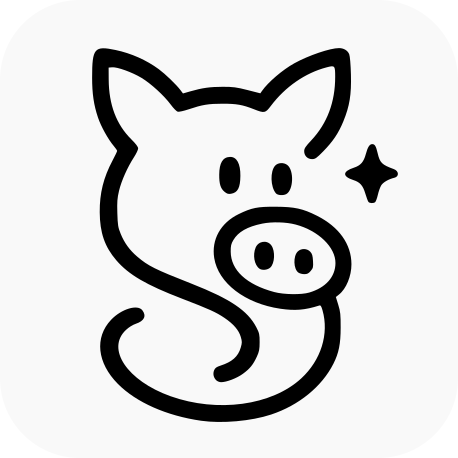
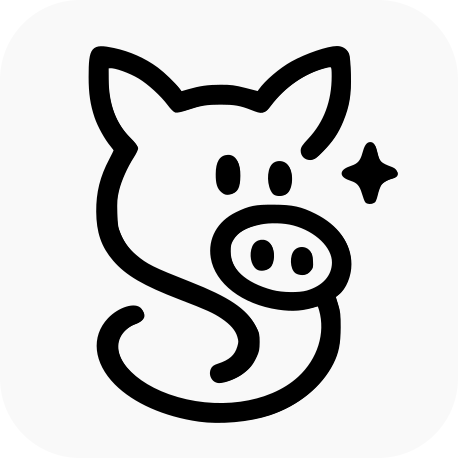
progress

diff --git a/src/lib/assets/app.html b/src/lib/assets/app.html
@@ -4,17 +4,20 @@
 <svg
    version="1.1"
    id="svg1"
-   style="width: 64px"
-   stroke-width="2"
+   width="308.67764"
+   height="376.77927"
+   viewBox="0 0 308.67764 376.77927"
    xmlns="http://www.w3.org/2000/svg"
    xmlns:svg="http://www.w3.org/2000/svg">
   <defs
      id="defs1" />
   <g
      id="g1"
-     transform="translate(35.324864,655.13262)">
+     transform="translate(36.824864,656.63262)"
+     style="stroke-width:4.8;stroke-dasharray:none">
     <path
        d="m 73.675136,-282.58602 c -34.65126,-4.98187 -64.8835498,-18.35691 -83.2098698,-36.8128 -20.8583502,-21.00583 -23.5679702,-46.40717 -6.8374002,-64.09728 10.2795402,-10.8691 26.5432,-15.79939 31.29696,-9.48759 4.27742,5.67932 1.84825,10.65439 -6.5669498,13.44947 -3.06194,1.01701 -6.97005,3.45399 -9.83174,6.13076 -20.2079402,18.90216 1.21330997,50.84551 44.4306098,66.25487 47.05149,16.77648 101.339654,9.38503 130.817174,-17.81103 19.72353,-18.19699 27.92799,-44.48771 21.22714,-68.02113 -1.18589,-4.16484 -1.88478,-5.22577 -3.17338,-4.81726 -14.49071,4.59374 -24.19378,5.39623 -38.99751,3.22525 -35.31742,-5.17933 -62.105904,-25.72028 -66.093084,-50.67906 -2.94036,-18.4059 6.36659,-35.1318 24.438054,-43.91866 13.10849,-6.37372 18.67183,-7.48272 37,-7.37563 19.01417,0.1111 26.93723,1.8329 41.11142,8.9341 22.20535,11.12477 34.58841,28.48971 34.63436,48.56822 0.0271,11.8503 -5.24134,24.62529 -12.49753,30.30411 l -3.09289,2.42055 2.42232,7.83977 c 2.1155,6.84675 2.41854,9.73971 2.39248,22.83976 -0.0324,16.29979 -1.84557,25.33392 -7.22519,36 -11.53004,22.8604 -34.51463,41.62087 -62.29162,50.84363 -19.80072,6.57441 -49.240524,9.18786 -69.953354,6.20995 z M 181.74364,-410.74991 c 16.51741,-4.89702 26.06773,-15.60911 26.19749,-29.38432 0.14948,-15.86903 -17.00884,-32.51784 -39.76599,-38.58516 -9.58334,-2.55503 -23.6047,-2.94379 -33.47341,-0.92809 -14.89749,3.04283 -24.0186,8.23663 -28.82614,16.41436 -2.25997,3.84425 -2.69243,5.73532 -2.65129,11.59352 0.1298,18.48254 15.67325,32.90861 43.50855,40.38084 9.6209,2.58267 27.15625,2.83753 35.01079,0.50885 z m -10.81669,-19.92587 c -4.99113,-3.49592 -5.42917,-16.37737 -0.71716,-21.08938 3.35537,-3.35537 9.27261,-3.27296 12.5111,0.17426 1.92393,2.04793 2.46936,3.87567 2.776,9.30243 0.34797,6.15831 0.14441,7.03564 -2.30896,9.9513 -2.131,2.53255 -3.45772,3.19757 -6.37918,3.19757 -2.02873,0 -4.67554,-0.69128 -5.8818,-1.53618 z m -39.00752,-3.96321 c -5.08977,-3.65991 -6.88158,-13.64626 -3.78028,-21.06872 2.78873,-6.67436 11.65129,-7.88745 15.73412,-2.15365 4.03485,5.66643 3.41319,18.04857 -1.11175,22.14358 -2.73416,2.47438 -8.15164,3.01342 -10.84209,1.07879 z m -43.218854,111.52483 c -2.71273,-2.71273 -3.48469,-6.5025 -2.03665,-9.99839 0.94219,-2.27464 2.37242,-3.30706 6.36328,-4.59335 11.686464,-3.76665 17.604864,-9.03785 20.210294,-18.0002 1.43165,-4.9247 1.43427,-5.93328 0.028,-10.77067 -1.93707,-6.66327 -7.24941,-12.84244 -16.290114,-18.9482 -8.46191,-5.71487 -15.15671,-8.74633 -42.45892,-19.22575 -35.93106,-13.79145 -53.1936798,-23.87389 -65.64488,-38.3407 -11.61717,-13.49776 -16.46063,-27.54289 -16.6039,-48.14818 -0.13174,-18.94751 3.76094,-34.57299 12.88651,-51.72729 2.48652,-4.67417 4.52094,-8.93865 4.52094,-9.47663 0,-0.53798 -1.4625,-2.69158 -3.25,-4.78576 -5.6353,-6.60216 -12.87304,-19.61758 -15.87212,-28.5424 -4.23265,-12.59575 -5.87788,-23.78131 -5.87788,-39.96242 0,-29.47078 2.21448,-32.06807 23.50841,-27.57218 15.5600002,3.28527 30.74313,10.0347 43.19207,19.2004 6.38848,4.70361 17.51765,15.44402 21.54772,20.79504 l 2.58234,3.42875 7.33473,-2.1098 c 11.93404,-3.43276 19.62674,-4.51514 32.33473,-4.54957 10.351084,-0.028 13.762694,0.41798 24.827934,3.24592 l 12.82793,3.27843 1.63703,-2.36124 c 6.0146,-8.67541 20.73212,-21.2541 32.38299,-27.67692 14.27644,-7.87023 35.70479,-15.15839 44.62378,-15.17732 4.76018,-0.0101 8.7958,2.43977 10.23387,6.2126 0.74135,1.94496 1.43248,10.20101 1.69773,20.28039 0.52994,20.1379 -1.28664,31.34475 -7.57734,46.7463 -4.78855,11.72385 -10.37224,20.04901 -20.12348,30.0037 -6.64303,6.78163 -8.03457,7.75 -11.13671,7.75 -4.5534,0 -7.89373,-3.35351 -7.89373,-7.92488 0,-2.7144 1.27927,-4.65935 7.25,-11.02259 15.77321,-16.81012 23.78184,-38.19426 23.73469,-63.37489 -0.0211,-11.29183 -0.29049,-11.58669 -8.59462,-9.40869 -21.30606,5.58815 -41.28505,19.39703 -55.67522,38.48105 -5.55199,7.36297 -6.40321,7.53312 -16.93882,3.38582 -11.42645,-4.49799 -17.22486,-5.52313 -31.276034,-5.52954 -14.21101,-0.006 -20.43961,1.01614 -33.85654,5.55858 -4.8711,1.64916 -9.83492,2.75292 -11.03071,2.45279 -1.19579,-0.30012 -4.29761,-3.43766 -6.89292,-6.9723 -6.62643,-9.02474 -20.03137,-21.28539 -29.43805,-26.92511 -9.3744898,-5.62041 -24.18027,-10.94439 -29.2492,-10.51764 l -3.53258,0.2974 0.0773,12 c 0.16205,25.1567 7.64187,44.90539 22.6224102,59.7291 4.588,4.53997 6.8002898,7.49877 6.8002898,9.09496 0,1.30123 -1.8730598,5.24813 -4.1623498,8.7709 -6.47517003,9.96401 -12.57944,23.66197 -14.91317,33.4651 -1.7812802,7.4825 -2.0605902,11.14078 -1.7133102,22.43994 0.3716702,12.09231 0.7211802,14.25183 3.3518802,20.7102 3.6759,9.02432 9.00373,16.35922 16.52639,22.75212 11.0555898,9.39524 17.3352698,12.52283 54.4105598,27.09908 38.666774,15.20195 55.961444,26.84174 64.631574,43.49885 3.04288,5.846 3.35003,7.22345 3.33127,14.93975 -0.0174,7.14864 -0.4596,9.44719 -2.78156,14.45781 -3.76408,8.12257 -6.86949,11.94872 -13.89643,17.12166 -6.02713,4.43692 -16.383014,8.42053 -21.890194,8.42053 -1.59206,0 -3.78321,-0.88855 -4.86922,-1.97456 z M 240.90193,-501.3896 c -0.55995,-0.6875 -1.97458,-4.48052 -3.14362,-8.42893 -2.35339,-7.94854 -5.30426,-11.28397 -11.80777,-13.34658 -11.25038,-3.56811 -11.12169,-8.65319 0.31312,-12.37274 6.82773,-2.22095 9.9054,-5.70404 12.01856,-13.60175 1.89867,-7.09611 3.76456,-10 6.42546,-10 2.56585,0 3.74702,1.95554 5.3616,8.87662 2.2992,9.85582 4.12631,11.66799 16.26064,16.12767 5.11942,1.88153 5.43303,7.46728 0.48492,8.63698 -5.75589,1.36067 -11.29653,4.56828 -13.147,7.61113 -1.05852,1.7406 -2.58589,6.06388 -3.39414,9.60728 -0.80826,3.54341 -2.06108,6.81766 -2.78406,7.27613 -1.95508,1.23977 -5.42943,1.0363 -6.58771,-0.38581 z m -92.4433,-8.5 c -5.56376,-6.37842 -5.99299,-22.20475 -0.75347,-27.78196 2.89887,-3.0857 8.59572,-3.33687 12.15648,-0.53598 6.83729,5.37822 6.07054,25.18409 -1.12402,29.0345 -3.03624,1.62495 -8.57324,1.23896 -10.27899,-0.71656 z m -51.559564,-1.71503 c -3.84685,-3.23691 -5.22903,-7.79828 -5.16191,-17.03497 0.0855,-11.76455 3.58244,-17.50993 10.782114,-17.71463 6.71686,-0.19098 10.50121,6.71928 10.37456,18.94401 -0.12452,12.02029 -2.64106,16.81579 -9.39998,17.91261 -2.74659,0.44571 -4.059574,0.0262 -6.594784,-2.10702 z"
+       style="fill:#000000;stroke:#000000;stroke-width:3;stroke-linecap:butt;stroke-linejoin:bevel;stroke-dasharray:none;stroke-opacity:1;paint-order:markers stroke fill"
        id="path1-3" />
   </g>
 </svg>

diff --git a/src/lib/components/Logo.svelte b/src/lib/components/Logo.svelte
@@ -1,4 +1,6 @@
 <script lang="ts">
+  import aislopSvg from '$lib/assets/aislop.svg?raw';
+  
   export let size: 'small' | 'medium' | 'large' = 'medium';
   export let showText = true;
   
@@ -12,17 +14,15 @@
 </script>
 
 <div class="flex items-center gap-1">
-  <img 
-    src="/aislop.svg"
-    alt="CleanAISlop logo"
-    width={currentSize.icon}
-    height={currentSize.icon}
-    class="{size === 'small' ? 'h-8' : size === 'medium' ? 'h-10' : 'h-12'}"
-  />
+  <div 
+    class="{size === 'small' ? 'h-8 w-8' : size === 'medium' ? 'h-10 w-10' : 'h-12 w-12'}"
+  >
+    {@html aislopSvg}
+  </div>
   
   {#if showText}
-    <div class="{currentSize.text} tracking-tight text-black">
-      <span class="text-emerald-600">clean</span>myaislop
+    <div class="{currentSize.text} font-medium tracking-tight text-black">
+      <span class="text-emerald-600">clean</span>my<span class="">ai</span>slop
     </div>
   {/if}
 </div>

diff --git a/src/lib/components/Hero.svelte b/src/lib/components/Hero.svelte
@@ -17,7 +17,7 @@
     <!-- Background Image -->
     <div class="absolute inset-0">
       <img 
-        src="/954929.jpg" 
+        src="/chatgpt.png" 
         alt="Developer working on code" 
         class="w-full h-full object-cover"
       />
